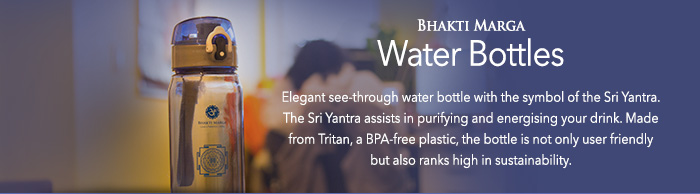
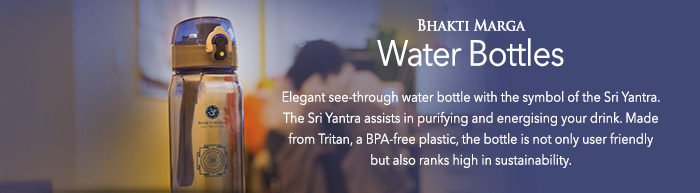
Final adjustments, validation

diff --git a/bm-newsletter/index.html b/bm-newsletter/index.html
@@ -1,8 +1,8 @@
 <!DOCTYPE html PUBLIC "-//W3C//DTD XHTML 1.0 Transitional//EN" "http://www.w3.org/TR/xhtml1/DTD/xhtml1-transitional.dtd">
-<html xmlns="http://www.w3.org/1999/xhtml" style="width:100%;">
+<html xmlns="http://www.w3.org/1999/xhtml">
   <head>
-    <meta http-equiv="Content-Type" content="text/html; charset=UTF-8" />
-    <meta name="viewport" content="width=device-width, initial-scale=1.0, maximum-scale=1.0">
+    <meta http-equiv="Content-Type" content="text/html; charset=UTF-8"/>
+    <meta name="viewport" content="width=device-width, initial-scale=1.0, maximum-scale=1.0"/>
     <title>Bhakti Marga International Newsletter Issue</title>
     <meta name="robots" content="noindex,nofollow"></meta>
     <link rel="shortcut icon" href="http://www.bhaktimarga.org/sites/all/themes/bm_radix/assets/images/logo-1.png" type="image/png" />
@@ -24,14 +24,22 @@
         				  
                           <tr>  						
               							<td width="700">
-                							<a href="http://www.bhaktimarga.org" target="_blank">
-                                <img src="http://cardosogabriel.github.io/bm-newsletter/img/header-mark.png" alt="Bhakti Marga International Newsletter" border="0" width="700" height="200" style="display:block;margin:0;">
-                							</a>
+                						  <table cellspacing="0" cellpadding="0" width="700" border="0" align="center" style="margin:0 auto">
+                                <tbody>
+                                  <tr>
+                                    <td width="700">
+                                      <a href="http://www.bhaktimarga.org" target="_blank">
+                                        <img src="http://cardosogabriel.github.io/bm-newsletter/img/header-mark.png" alt="Bhakti Marga International Newsletter" border="0" width="700" height="200" style="display:block;margin:0;"/>
+                        							</a>
+                                    </td>
+                                  </tr>
+                                  <tr>
+                                    <td width="700" height="20"></td>
+                                  </tr>
+                                </tbody>
+                						  </table>
                             </td>
                 					</tr>
-                          <tr>
-                            <td width="700" height="20"></td>
-                          </tr>
                             
                           <!-- Top text -->
                           
@@ -74,8 +82,8 @@
                                   </tr>
                                   <tr>
                                     <td width="700" align="center" colspan="5">
-                    									<div style="font-size:36px;line-height:64px;color:#2b3467;text-align:center;font-family:Avenir Next, Avenir,Helvetica Neue,Helvetica,Arial,sans-serif;font-weight:100;">
-                      									<a href="http://swamivishwananda-info.blogspot.com.br/" target="_blank" style="text-decoration:none;">February's Blog Highlights</a>
+                    									<div style="font-size:36px;line-height:64px;text-align:center;font-family:Avenir Next, Avenir,Helvetica Neue,Helvetica,Arial,sans-serif;font-weight:100;">
+                      									<a href="http://swamivishwananda-info.blogspot.com.br/" target="_blank" style="text-decoration:none;color:#2b3467;">February's Blog Highlights</a>
                       								</div>
                                     </td>  
                                   </tr>
@@ -89,12 +97,12 @@
                   								  <td width="40" bgcolor="#f47e55"></td>
                     								<td width="200" bgcolor="#f47e55">
                     									<a href="http://swamivishwananda-info.blogspot.com.br/2014/12/south-india-pilgrimage-day-3-on-golden.html" target="_blank">
-                      									<img src="http://cardosogabriel.github.io/bm-newsletter/img/issue-1/blog-tuktuk.jpg" alt="" width="196" height="131" border="0" style="display:block;margin:0;border-width:2px;border-style:solid;border-color:#ffffff;box-shadow:0px 2px 3px rgba(0,0,0,0.3);">
+                      									<img src="http://cardosogabriel.github.io/bm-newsletter/img/issue-1/blog-tuktuk.jpg" alt="" width="196" height="131" border="0" style="display:block;margin:0;border-width:2px;border-style:solid;border-color:#ffffff;box-shadow:0px 2px 3px rgba(0,0,0,0.3);"/>
                       								</a>
                                     </td>
                      								<td width="40" bgcolor="#f47e55"></td>
                     								<td width="380" bgcolor="#f47e55">
-                              				<table width="380" border="0" cellpadding="0" cellspacing="0" align="center" valign="top" style="margin:0 auto">
+                              				<table width="380" border="0" cellpadding="0" cellspacing="0" align="center" style="margin:0 auto">
                     										<tbody>
                     										  <tr>
                     												<td style="font-size:16px;font-weight:normal;color:#fce3dd;font-family:Avenir Next, Avenir,Helvetica Neue,Helvetica,Arial,sans-serif;line-height:24px;vertical-align:top">
@@ -131,12 +139,12 @@
                   								  <td width="40" bgcolor="#f47e55"></td>
                     								<td width="200" bgcolor="#f47e55">
                     									<a href="http://swamivishwananda-info.blogspot.com.br/2014/12/south-india-pilgrimage-day-3-on-golden.html" target="_blank">
-                      									<img src="http://cardosogabriel.github.io/bm-newsletter/img/issue-1/blog-tuktuk.jpg" alt="" width="196" height="131" border="0" style="display:block;margin:0;margin:0;border-width:2px;border-style:solid;border-color:#ffffff;box-shadow:0px 2px 3px rgba(0,0,0,0.3);">
+                      									<img src="http://cardosogabriel.github.io/bm-newsletter/img/issue-1/blog-tuktuk.jpg" alt="" width="196" height="131" border="0" style="display:block;margin:0;margin:0;border-width:2px;border-style:solid;border-color:#ffffff;box-shadow:0px 2px 3px rgba(0,0,0,0.3);"/>
                       								</a>
                                     </td>
                      								<td width="30" bgcolor="#f47e55"></td>
                     								<td width="380" bgcolor="#f47e55">
-                              				<table width="380" border="0" cellpadding="0" cellspacing="0" align="center" valign="top" style="margin:0 auto">
+                              				<table width="380" border="0" cellpadding="0" cellspacing="0" align="center" style="margin:0 auto">
                     										<tbody>
                     										  <tr>
                     												<td style="font-size:16px;font-weight:normal;color:#fce3dd;font-family:Avenir Next, Avenir,Helvetica Neue,Helvetica,Arial,sans-serif;line-height:24px;vertical-align:top">
@@ -186,8 +194,8 @@
                                   </tr>
                                   <tr>
                                     <td width="700" align="center" colspan="5">
-                    									<div style="font-size:36px;line-height:64px;color:#2b3467;text-align:center;font-family:Avenir Next, Avenir,Helvetica Neue,Helvetica,Arial,sans-serif;font-weight:100;">
-                      									<a href="http://www.bhaktimarga.org/events" target="_blank" style="text-decoration:none;">Upcoming Events</a>
+                    									<div style="font-size:36px;line-height:64px;text-align:center;font-family:Avenir Next, Avenir,Helvetica Neue,Helvetica,Arial,sans-serif;font-weight:100;">
+                      									<a href="http://www.bhaktimarga.org/events" target="_blank" style="text-decoration:none;color:#2b3467;">Upcoming Events</a>
                       								</div>
                                     </td>  
                                   </tr>
@@ -197,7 +205,7 @@
                                   
                                   <tr>
                                     <td width="220" valign="top">
-                              				<table width="220" border="0" cellpadding="0" cellspacing="0" align="center" valign="top" style="margin:0 auto">
+                              				<table width="220" border="0" cellpadding="0" cellspacing="0" align="center" style="margin:0 auto">
                     										<tbody>
                     										  <tr>
                       										  <td>
@@ -210,7 +218,7 @@
                                             <td height="8"></td>
                                           </tr>
                                           <tr>
-                                            <td style="font-size:13px;font-weight:bold;font-family:Avenir Next, Avenir,Helvetica Neue,Helvetica,Arial,sans-serif;line-height:21px;text-align:center;">
+                                            <td style="font-size:12px;font-weight:bold;font-family:Avenir Next, Avenir,Helvetica Neue,Helvetica,Arial,sans-serif;line-height:21px;text-align:center;">
                             									<a href="http://www.bhaktimarga.org/events/maha-shivaratri" target="_blank" style="color:#2b3467;text-decoration:none;">
                     												    17 February
                             									</a>
@@ -238,7 +246,7 @@
                                     <td width="20"></td>
 
                                     <td width="220" valign="top">
-                              				<table width="220" border="0" cellpadding="0" cellspacing="0" align="center" valign="top" style="margin:0 auto">
+                              				<table width="220" border="0" cellpadding="0" cellspacing="0" align="center" style="margin:0 auto">
                     										<tbody>
                     										  <tr>
                       										  <td>
@@ -251,7 +259,7 @@
                                             <td height="8"></td>
                                           </tr>
                                           <tr>
-                                            <td style="font-size:13px;font-weight:bold;font-family:Avenir Next, Avenir,Helvetica Neue,Helvetica,Arial,sans-serif;line-height:21px;text-align:center;">
+                                            <td style="font-size:12px;font-weight:bold;font-family:Avenir Next, Avenir,Helvetica Neue,Helvetica,Arial,sans-serif;line-height:21px;text-align:center;">
                             									<a href="http://www.bhaktimarga.org/darshan" target="_blank" style="color:#2b3467;text-decoration:none;">
                     												    21 February
                             									</a>
@@ -279,7 +287,7 @@
                                     <td width="20"></td>
                                     
                                     <td width="220" valign="top">
-                              				<table width="220" border="0" cellpadding="0" cellspacing="0" align="center" valign="top" style="margin:0 auto">
+                              				<table width="220" border="0" cellpadding="0" cellspacing="0" align="center" style="margin:0 auto">
                     										<tbody>
                     										  <tr>
                       										  <td>
@@ -318,6 +326,9 @@
                                       </table>
                                     </td>
                                   </tr>
+                                  <tr>
+                                    <td height="40"></td>
+                                  </tr>
                                 </tbody>
                               </table>
                             </td>
@@ -337,7 +348,7 @@
                                   <tr>
                                     <td width="700" style="border-bottom-style:solid;border-bottom-color:#4f5992;border-bottom-width:1px">
                                       <a href="http://www.bhaktievent.de/magento/index.php/" target="_blank">
-                                        <img src="http://cardosogabriel.github.io/bm-newsletter/img/bhakti-shop-bottle.jpg" alt="Water Bottles" width="700" height="194"/>
+                                        <img src="http://cardosogabriel.github.io/bm-newsletter/img/bhakti-shop-bottle.jpg" alt="Water Bottles" width="700" height="193"/>
                                       </a>
                                     </td>
                                   </tr>
@@ -351,7 +362,7 @@
                                   <tr>
                                     <td width="700" style="border-bottom-style:solid;border-bottom-color:#4f5992;border-bottom-width:1px">
                                       <a href="http://www.bhaktievent.de/magento/index.php/" target="_blank">
-                                        <img src="http://cardosogabriel.github.io/bm-newsletter/img/bhakti-shop-just-love-qa.jpg" alt="Bhakti Marga Just Love Q&A" width="700" height="221"/>
+                                        <img src="http://cardosogabriel.github.io/bm-newsletter/img/bhakti-shop-just-love-qa.jpg" alt="Bhakti Marga Just Love Q&amp;A" width="700" height="221"/>
                                       </a>
                                     </td>
                                   </tr>
@@ -378,13 +389,15 @@
                       					<tbody>
                                   <tr>
                     								<td width="700" colspan="5" style="text-align:center;">
-                                      <img src="http://cardosogabriel.github.io/bm-newsletter/img/ic-social-youtube.png" alt="YouTube logo" width="60" height="60"/>
+                      								<a href="https://www.youtube.com/user/bhaktimarga108" target="_blank">
+                                        <img src="http://cardosogabriel.github.io/bm-newsletter/img/ic-social-youtube.png" alt="YouTube logo" width="60" height="60"/>
+                      								</a>
                     								</td>
                                   </tr>
                                   <tr>
                                     <td width="700" align="center" colspan="5">
-                    									<div style="font-size:36px;line-height:64px;color:#2b3467;text-align:center;font-family:Avenir Next, Avenir,Helvetica Neue,Helvetica,Arial,sans-serif;font-weight:100;">
-                      									<a href="https://www.youtube.com/user/bhaktimarga108" target="_blank" style="text-decoration:none;">Recent YouTube Videos</a>
+                    									<div style="font-size:36px;line-height:64px;text-align:center;font-family:Avenir Next, Avenir,Helvetica Neue,Helvetica,Arial,sans-serif;font-weight:100;">
+                      									<a href="https://www.youtube.com/user/bhaktimarga108" target="_blank" style="text-decoration:none;color:#2b3467;">Recent YouTube Videos</a>
                       								</div>
                                     </td>  
                                   </tr>
@@ -394,11 +407,11 @@
 
                                   <tr>
                                     <td width="220" valign="top">
-                              				<table width="220" border="0" cellpadding="0" cellspacing="0" align="center" valign="top" style="margin:0 auto">
+                              				<table width="220" border="0" cellpadding="0" cellspacing="0" align="center" style="margin:0 auto">
                     										<tbody>
                     										  <tr>
                       										  <td>
-                            									<a href="https://www.flickr.com/photos/bhaktimarga/sets/72157649141243388/" target="_blank">
+                            									<a href="https://www.youtube.com/watch?v=TesU7mV152A" target="_blank">
                               									<img src="http://cardosogabriel.github.io/bm-newsletter/img/issue-1/youtube-guruji.jpg" alt="Babaji Celebration" width="220" height="147" border="0" style="display:block;margin:0;" />
                             									</a>
                                             </td>
@@ -408,22 +421,28 @@
                                           </tr>
                                           <tr>
                                             <td style="font-size:16px;color:#2b3467;font-family:Avenir Next, Avenir,Helvetica Neue,Helvetica,Arial,sans-serif;line-height:21px;text-align:center;">
-                            									<a href="#" target="_blank" style="color:#2b3467;text-decoration:none;">
+                            									<a href="https://www.youtube.com/watch?v=TesU7mV152A" target="_blank" style="color:#2b3467;text-decoration:none;">
                     												    How can I know that my intuition isn't imagined?
                             									</a>
                     												</td>
                                           </tr>
+                                          <tr>
+                                            <td height="3"></td>
+                                          </tr>
+                                          <tr>
+                                            <td style="font-size:13px;color:#888888;font-family:Avenir Next, Avenir,Helvetica Neue,Helvetica,Arial,sans-serif;line-height:18px;text-align:center;">Published on Feb 8, 2015</td>
+                                          </tr>
                                         </tbody>
                                       </table>
                                     </td>
                                     <td width="20"></td>
 
                                     <td width="220" valign="top">
-                              				<table width="220" border="0" cellpadding="0" cellspacing="0" align="center" valign="top" style="margin:0 auto">
+                              				<table width="220" border="0" cellpadding="0" cellspacing="0" align="center" style="margin:0 auto">
                     										<tbody>
                     										  <tr>
                       										  <td>
-                            									<a href="https://www.flickr.com/photos/bhaktimarga/sets/72157649141243388/" target="_blank">
+                            									<a href="https://www.youtube.com/watch?v=wD5Jh4uYNDw" target="_blank">
                               									<img src="http://cardosogabriel.github.io/bm-newsletter/img/issue-1/youtube-guruji.jpg" alt="Babaji Celebration" width="220" height="147" border="0" style="display:block;margin:0;" />
                             									</a>
                                             </td>
@@ -433,22 +452,28 @@
                                           </tr>
                                           <tr>
                                             <td style="font-size:16px;color:#2b3467;font-family:Avenir Next, Avenir,Helvetica Neue,Helvetica,Arial,sans-serif;line-height:21px;text-align:center;">
-                            									<a href="#" target="_blank" style="color:#2b3467;text-decoration:none;">
+                            									<a href="https://www.youtube.com/watch?v=wD5Jh4uYNDw" target="_blank" style="color:#2b3467;text-decoration:none;">
                     												    I can't see any meaning in life? Is there another world better suited for me?
                             									</a>
                     												</td>
                                           </tr>
+                                          <tr>
+                                            <td height="3"></td>
+                                          </tr>
+                                          <tr>
+                                            <td style="font-size:13px;color:#888888;font-family:Avenir Next, Avenir,Helvetica Neue,Helvetica,Arial,sans-serif;line-height:18px;text-align:center;">Published on Feb 9, 2015</td>
+                                          </tr>
                                         </tbody>
                                       </table>
                                     </td>
                                     <td width="20"></td>
 
                                     <td width="220" valign="top">
-                              				<table width="220" border="0" cellpadding="0" cellspacing="0" align="center" valign="top" style="margin:0 auto">
+                              				<table width="220" border="0" cellpadding="0" cellspacing="0" align="center" style="margin:0 auto">
                     										<tbody>
                     										  <tr>
                       										  <td>
-                            									<a href="https://www.flickr.com/photos/bhaktimarga/sets/72157649141243388/" target="_blank">
+                            									<a href="https://www.youtube.com/watch?v=lLcnK8mGDp4" target="_blank">
                               									<img src="http://cardosogabriel.github.io/bm-newsletter/img/issue-1/youtube-guruji.jpg" alt="Babaji Celebration" width="220" height="147" border="0" style="display:block;margin:0;" />
                             									</a>
                                             </td>
@@ -458,10 +483,16 @@
                                           </tr>
                                           <tr>
                                             <td style="font-size:16px;color:#2b3467;font-family:Avenir Next, Avenir,Helvetica Neue,Helvetica,Arial,sans-serif;line-height:21px;text-align:center;">
-                            									<a href="#" target="_blank" style="color:#2b3467;text-decoration:none;">
-                    												    How can we not see the duality if we live is a dualistic reality?
+                            									<a href="https://www.youtube.com/watch?v=lLcnK8mGDp4" target="_blank" style="color:#2b3467;text-decoration:none;">
+                    												    When I close my eyes I see many things.
                             									</a>
                     												</td>
+                                          </tr>
+                                          <tr>
+                                            <td height="3"></td>
+                                          </tr>
+                                          <tr>
+                                            <td style="font-size:13px;color:#888888;font-family:Avenir Next, Avenir,Helvetica Neue,Helvetica,Arial,sans-serif;line-height:18px;text-align:center;">Published on Feb 10, 2015</td>
                                           </tr>
                     										</tbody>
                               				</table>
@@ -483,13 +514,15 @@
                                 <tbody>
                                   <tr>
                     								<td width="700" colspan="5" style="text-align:center;">
-                                      <img src="http://cardosogabriel.github.io/bm-newsletter/img/ic-flickr-albums.svg" alt="Flickr Albums" width="60" height="60"/>
+                    									<a href="https://www.flickr.com/photos/bhaktimarga/sets/" target="_blank">
+                                        <img src="http://cardosogabriel.github.io/bm-newsletter/img/ic-flickr-albums.svg" alt="Flickr Albums" width="60" height="60"/>
+                    									</a>
                     								</td>
                                   </tr>
                                   <tr>
                                     <td width="700" align="center" colspan="5">
-                    									<div style="font-size:36px;line-height:64px;color:#2b3467;text-align:center;font-family:Avenir Next, Avenir,Helvetica Neue,Helvetica,Arial,sans-serif;font-weight:100;">
-                      									<a href="https://www.flickr.com/photos/bhaktimarga/sets/" target="_blank" style="text-decoration:none;">Recent Flickr Albums</a>
+                    									<div style="font-size:36px;line-height:64px;text-align:center;font-family:Avenir Next, Avenir,Helvetica Neue,Helvetica,Arial,sans-serif;font-weight:100;">
+                      									<a href="https://www.flickr.com/photos/bhaktimarga/sets/" target="_blank" style="text-decoration:none;color:#2b3467;">Recent Flickr Albums</a>
                       								</div>
                                     </td>  
                                   </tr>
@@ -498,7 +531,7 @@
                                   </tr>
                                   <tr>
                                     <td width="220" valign="top">
-                              				<table width="220" border="0" cellpadding="0" cellspacing="0" align="center" valign="top" style="margin:0 auto">
+                              				<table width="220" border="0" cellpadding="0" cellspacing="0" align="center" style="margin:0 auto">
                     										<tbody>
                     										  <tr>
                       										  <td>
@@ -533,7 +566,7 @@
                                     <td width="20"></td>
 
                                     <td width="220" valign="top">
-                              				<table width="220" border="0" cellpadding="0" cellspacing="0" align="center" valign="top" style="margin:0 auto">
+                              				<table width="220" border="0" cellpadding="0" cellspacing="0" align="center" style="margin:0 auto">
                     										<tbody>
                     										  <tr>
                       										  <td>
@@ -568,7 +601,7 @@
                                     <td width="20"></td>
 
                                     <td width="220" valign="top">
-                              				<table width="220" border="0" cellpadding="0" cellspacing="0" align="center" valign="top" style="margin:0 auto">
+                              				<table width="220" border="0" cellpadding="0" cellspacing="0" align="center" style="margin:0 auto">
                     										<tbody>
                     										  <tr>
                       										  <td>
@@ -625,7 +658,7 @@
                                   </tr>
                                   <tr>
                                     <td width="700" align="center" colspan="7" bgcolor="#e9eaf0">
-                                      <div style="font-size:16px;line-height:24px;color:#333333;text-align:center;font-family:Avenir Next, Avenir,Helvetica Neue,Helvetica,Arial,sans-serif;">never miss anything about Swamiji & Bhakti Marga</div>
+                                      <div style="font-size:16px;line-height:24px;color:#333333;text-align:center;font-family:Avenir Next, Avenir,Helvetica Neue,Helvetica,Arial,sans-serif;">never miss anything about Swamiji &amp; Bhakti Marga</div>
                                     </td>
                                   </tr>
                                   <tr>
@@ -681,12 +714,12 @@
                                   <tr>
                                     <td width="700" align="center" bgcolor="#2b3467">
                     									<div style="font-size:12px;line-height:24px;text-align:center;font-family:Avenir Next, Avenir,Helvetica Neue,Helvetica,Arial,sans-serif;color:#fff">
-                      									Copyright © Bhakti Event GmbH, 2015 &nbsp;&nbsp;&nbsp;|&nbsp;&nbsp;&nbsp;<a href="#" target="_blank" style="color:#ffffff;text-decoration:none;">Contact</a>&nbsp;&nbsp;&nbsp;|&nbsp;&nbsp;&nbsp;<a href="#" target="_blank" style="color:#ffffff;text-decoration:none;">Unsubscribe</a>   
+                      									Copyright © Bhakti Event GmbH, 2015 &nbsp;&nbsp;&nbsp;|&nbsp;&nbsp;&nbsp;<a href="http://www.bhaktimarga.org/contact" target="_blank" style="color:#ffffff;text-decoration:none;">Contact</a>&nbsp;&nbsp;&nbsp;|&nbsp;&nbsp;&nbsp;<a href="#" target="_blank" style="color:#ffffff;text-decoration:none;">Unsubscribe</a>   
                     									</div>
                                     </td>
                                   </tr>
                                   <tr>
-                                    <td width="700" height="16"bgcolor="#2b3467"></td>
+                                    <td width="700" height="16" bgcolor="#2b3467"></td>
                                   </tr>
                                 </tbody>
                               </table>
